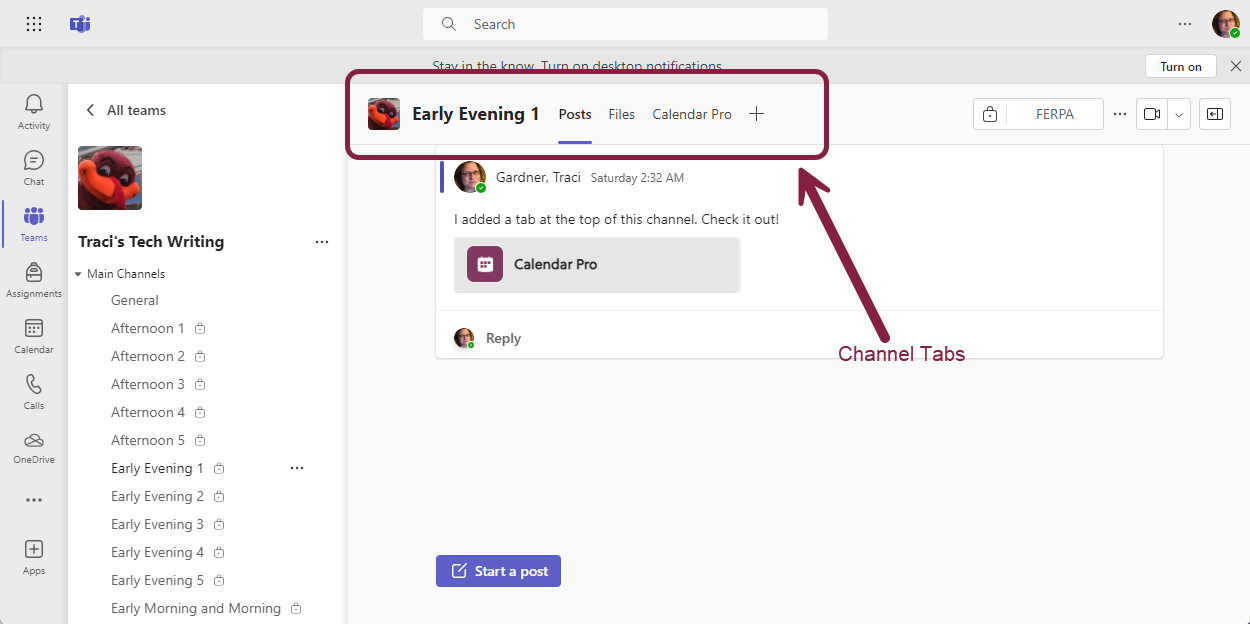
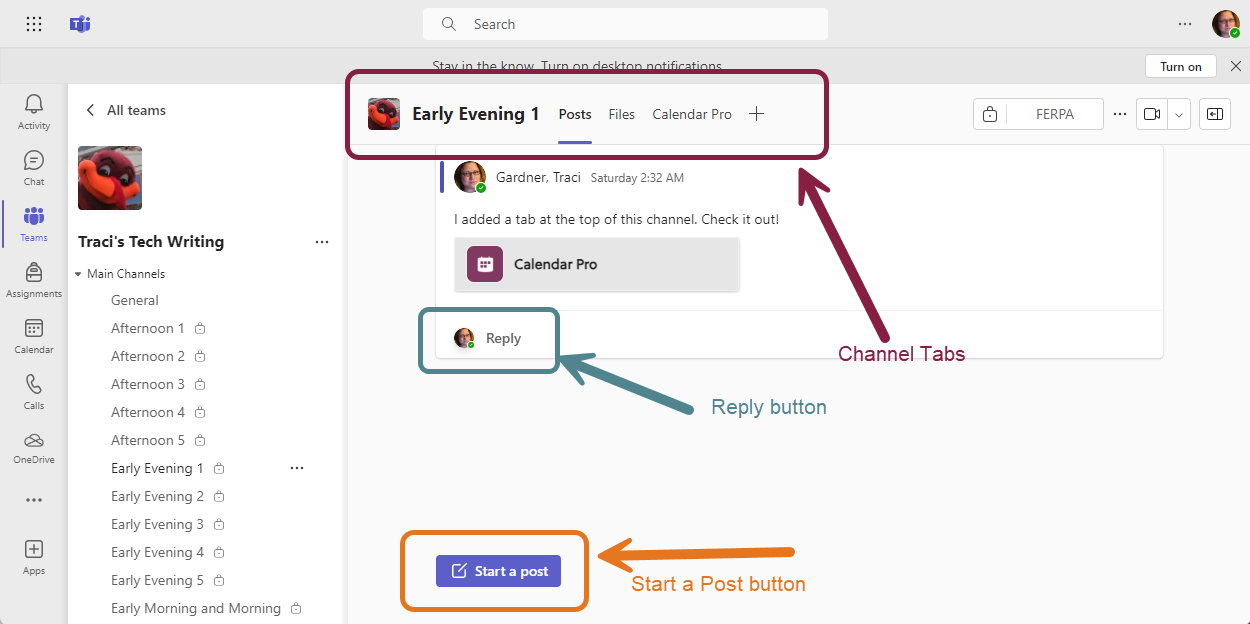
adding more callouts

Changed region(s): [[0.312, 0.8221, 0.6552, 1.0], [0.312, 0.4872, 0.5304, 0.6394], [0.5304, 0.6394, 0.6552, 0.6699]]

diff --git a/TechComm/groups/intro-and-contact-info.html b/TechComm/groups/intro-and-contact-info.html
@@ -67,7 +67,8 @@
             </li>
             <li>Click on the private channel for your group in the Channel list on the left side of the screen (shown by the maroon arrow in the image above). <br>NOTE: Your private channel is named with the current name of your group (See the list in Step 1, above).</li>
             <li>Click the Start a Post button (shown by the orange arrow in the image below), and add a greeting message to the rest of your group.<br>
-                <img src="https://tracigardner.github.io/TechComm/-images/teams/teams-channel-tabs.png" alt="Screenshot of the #general channel in Teams. An arrow points to the channel list on the left side of the image." style="width:500px;border: 1px solid #dedede; "></img>
+                <img src="https://tracigardner.github.io/TechComm/-images/teams/teams-channel-tabs.png" alt="Screenshot of the #general channel in Teams. An arrow points to the channel list on the left side of the image." style="width:500px;border: 1px solid #dedede; "></img><br>
+                NOTE: If another group member has already posted, you can also click on the Reply button (marked by the blue arrow in the image above) to respond to their comments.
             </li>
             <li></li>
             <li></li>
